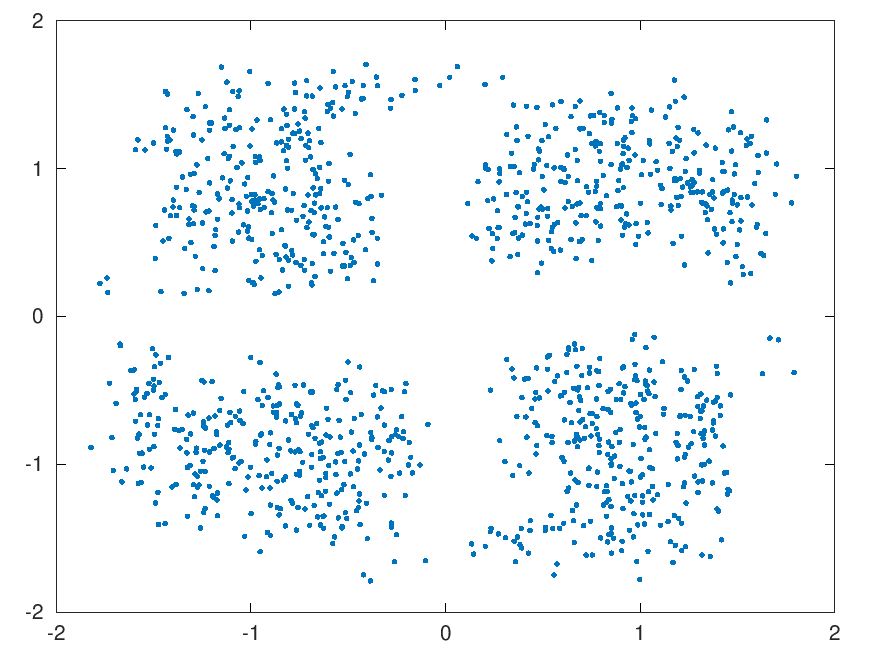
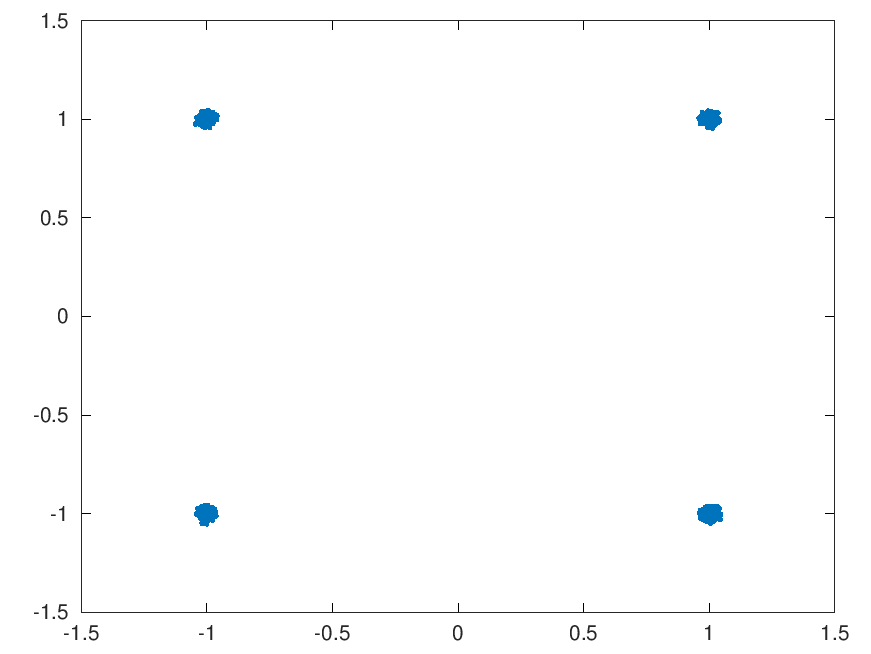
Experiment with TED

diff --git a/lab/timing_error_detector.c b/lab/timing_error_detector.c
@@ -11,6 +11,7 @@
 #include <stdint.h>
 #include <stdbool.h>
 #include <math.h>
+#include <float.h>
 
 #include "deque.h"
 #include "constellation.h"
@@ -70,8 +71,8 @@ static void advance_input_clock()
  */
 void sync_reset()
 {
-    complex float data[1] = { CMPLXF(0.0f, 0.0f) };
-    complex float decision[1] = { CMPLXF(0.0f, 0.0f) };
+    complex float data[1] = { CMPLXF(FLT_MAX, FLT_MAX) }; // I get infinity sometimes with 0.0 init
+    complex float decision[1] = { CMPLXF(FLT_MAX, FLT_MAX) };
 
     d_error = 0.0f;
     d_prev_error = 0.0f;
@@ -79,20 +80,20 @@ void sync_reset()
     empty_deque(d_input);
     push_front(d_input, data);
     push_front(d_input, data);
-    push_front(d_input, data);  // push 3 complex zero's
+    push_front(d_input, data);  // push 3 values (left, middle, right)
 
     empty_deque(d_decision);
     push_front(d_decision, decision);
     push_front(d_decision, decision);
-    push_front(d_decision, decision);  // push 3 complex zero's
+    push_front(d_decision, decision);  // push 3 values (left, middle, right)
 
     sync_reset_input_clock();
 }
 
 void create_timing_error_detector()
 {
-    complex float data[1] = { CMPLXF(0.0f, 0.0f) };
-    complex float decision[1] = { CMPLXF(0.0f, 0.0f) };
+    complex float data[1] = { CMPLXF(FLT_MAX, FLT_MAX) }; // I get infinity sometimes with 0.0 init
+    complex float decision[1] = { CMPLXF(FLT_MAX, FLT_MAX) };
 
     d_error = 0.0f;
     d_prev_error = 0.0f;
@@ -102,22 +103,18 @@ void create_timing_error_detector()
     d_input = create_deque(); // create deque
     push_front(d_input, data);
     push_front(d_input, data);
-    push_front(d_input, data);  // push 3 complex zero's
+    push_front(d_input, data);  // push 3 values (left, middle, right)
     
     d_decision = create_deque();  // create deque
     push_front(d_decision, decision);
     push_front(d_decision, decision);
-    push_front(d_decision, decision);  // push 3 complex zero's
+    push_front(d_decision, decision);  // push 3 values (left, middle, right)
 
     sync_reset_input_clock();
 }
 
 void destroy_timing_error_detector()
 {
-    // empty the deque's
-    //empty_deque(d_decision);
-    //empty_deque(d_input);
-
     // destroy the deque's
     free(d_decision);
     free(d_input);
@@ -176,9 +173,9 @@ void revert(bool preserve_error)
 
 static float compute_error()
 {
-    complex float right = *((complex float *)get(d_input, 2));
-    complex float left = *((complex float *)get(d_input, 0));
+    complex float left =   *((complex float *)get(d_input, 0));
     complex float middle = *((complex float *)get(d_input, 1));
+    complex float right =  *((complex float *)get(d_input, 2));
 
     return ((crealf(right) - crealf(left)) * crealf(middle)) +
            ((cimagf(right) - cimagf(left)) * cimagf(middle));

diff --git a/lab/qpsk-demo.c b/lab/qpsk-demo.c
@@ -108,11 +108,15 @@ static void processSymbols(complex float csamples[], unsigned int *diBits)
     {
         ted_input(&recvBlock[i]);
         float val = get_error();
-
+                                            // I have no clue, this is just a punt
         if (val < error)
         {
             error = val;
             index = i;
+        }
+        else
+        {
+            revert(true);
         }
     }
 
@@ -126,13 +130,13 @@ static void processSymbols(complex float csamples[], unsigned int *diBits)
     fprintf(stderr, "%f %f\n", crealf(costasSymbol), cimagf(costasSymbol));
 #endif
 
+    *diBits = qpsk_decision_maker(costasSymbol);
+
     float d_error = phase_detector(costasSymbol);
 
     advance_loop(d_error);
     phase_wrap();
     frequency_limit();
-
-    *diBits = qpsk_decision_maker(costasSymbol);
 
     /*
      * Save the detected frequency error
